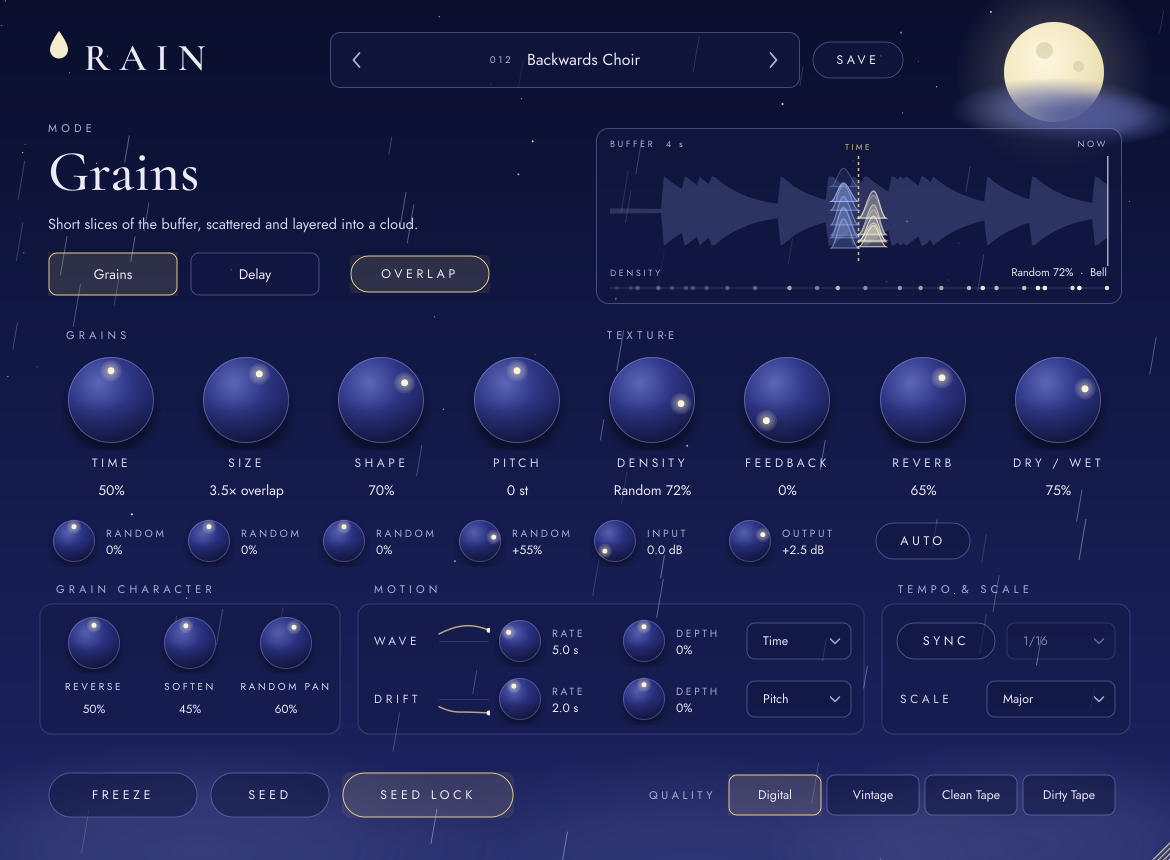
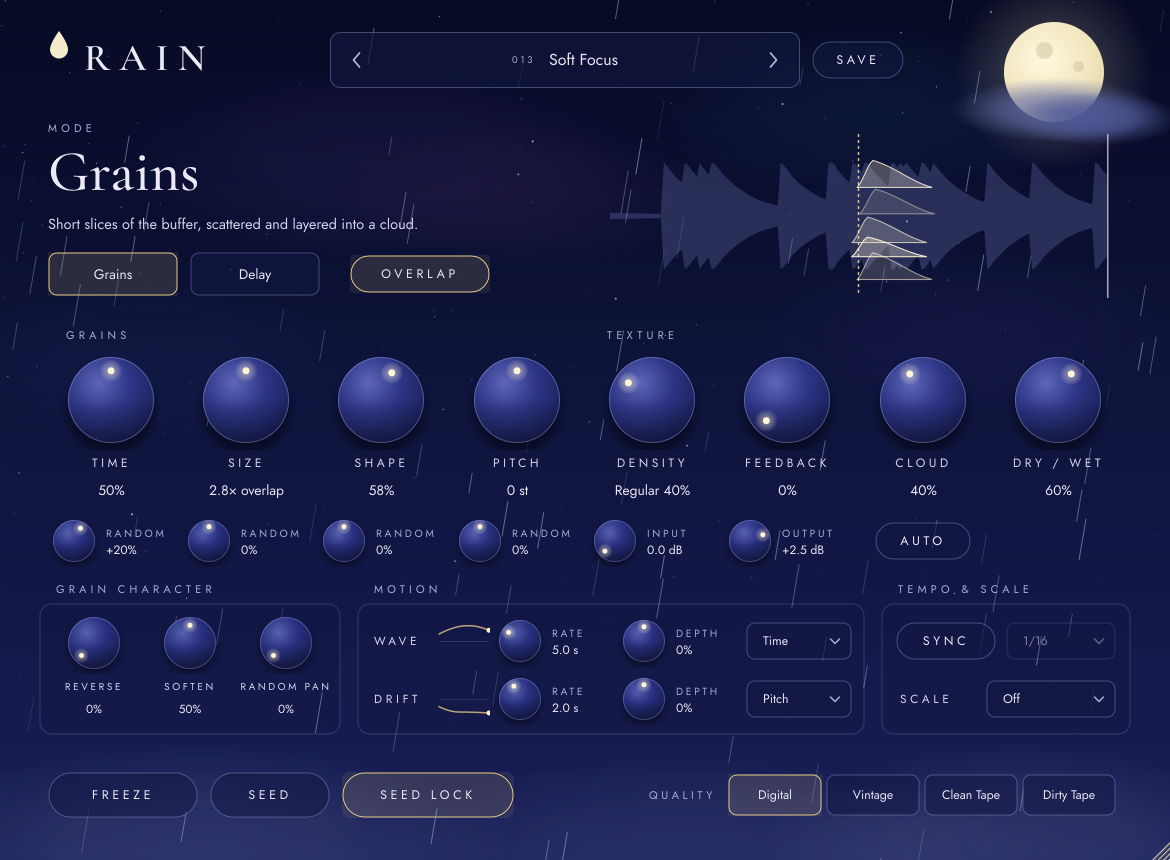
Weather sky, frameless grain display, Reverb renamed Cloud
- Grain display: no frame, labels or density lane; grains 10% more opaque.
- The rain on the panel follows DENSITY; the reverb knob (now CLOUD) darkens
  the sky and brings out nebulae and more stars.
- Value text rounds whole numbers (modulator periods no longer show 33.3333 s).

Claude-Session: https://claude.ai/code/session_015SvcbwEnBtvLQ2p4iUs4Hx

diff --git a/source/ui/Components.cpp b/source/ui/Components.cpp
@@ -385,9 +385,19 @@ void SkyBackground::resized()
     renderStatic();
 }
 
+void SkyBackground::setWeather (float rain, float night) noexcept
+{
+    rainTarget = jlimit (0.0f, 1.0f, rain);
+    nightTarget = jlimit (0.0f, 1.0f, night);
+}
+
 void SkyBackground::advance (float seconds)
 {
     time += seconds;
+    // Ease towards the knobs over about half a second, so the weather drifts.
+    const float k = 1.0f - std::exp (-seconds / 0.5f);
+    rainAmount += k * (rainTarget - rainAmount);
+    nightAmount += k * (nightTarget - nightAmount);
     repaint();
 }
 
@@ -412,6 +422,34 @@ void SkyBackground::renderStatic()
     const float scale = 2.0f; // render at 2x so it stays sharp when the window grows
     const int w = Theme::designWidth, h = Theme::designHeight;
     sky = Image (Image::RGB, static_cast<int> (w * scale), static_cast<int> (h * scale), true);
+    nightSky = Image (Image::ARGB, static_cast<int> (w * scale), static_cast<int> (h * scale), true);
+    decor = Image (Image::ARGB, static_cast<int> (w * scale), static_cast<int> (h * scale), true);
+
+    // The deep-night layer: darker sky, nebulae and a denser star field.
+    {
+        Graphics n (nightSky);
+        n.addTransform (AffineTransform::scale (scale));
+        ColourGradient dark (Colour (2, 3, 16).withAlpha (0.62f), 0, 0, Colour (4, 6, 26).withAlpha (0.35f), 0, static_cast<float> (h), false);
+        n.setGradientFill (dark);
+        n.fillRect (0, 0, w, h);
+        // Nebulae: soft violet, rose and teal clouds across the upper sky.
+        softEllipse (n, { 120.0f, 60.0f, 520.0f, 200.0f }, Colour (120, 70, 190).withAlpha (0.22f));
+        softEllipse (n, { 330.0f, 120.0f, 380.0f, 150.0f }, Colour (190, 90, 160).withAlpha (0.14f));
+        softEllipse (n, { 640.0f, 20.0f, 460.0f, 180.0f }, Colour (60, 140, 190).withAlpha (0.16f));
+        softEllipse (n, { 760.0f, 250.0f, 420.0f, 170.0f }, Colour (110, 80, 200).withAlpha (0.14f));
+        softEllipse (n, { -60.0f, 280.0f, 420.0f, 160.0f }, Colour (70, 120, 200).withAlpha (0.12f));
+        Random nr (29);
+        for (int i = 0; i < 220; ++i)
+        {
+            const float x = nr.nextFloat() * static_cast<float> (w);
+            const float y = nr.nextFloat() * static_cast<float> (h) * 0.85f;
+            const float r = nr.nextFloat() > 0.92f ? 1.9f : (nr.nextFloat() > 0.5f ? 1.2f : 0.8f);
+            n.setColour (Colour (230, 236, 255).withAlpha (0.25f + nr.nextFloat() * 0.65f));
+            n.fillEllipse (x, y, r, r);
+        }
+    }
+
+    {
     Graphics g (sky);
     g.addTransform (AffineTransform::scale (scale));
 
@@ -431,6 +469,18 @@ void SkyBackground::renderStatic()
         g.fillEllipse (sx, sy, sz, sz);
     }
 
+    // Low mist along the bottom.
+    const auto bottom = static_cast<float> (h);
+    softEllipse (g, { -120.0f, bottom - 120.0f, 640.0f, 220.0f }, Colour (160, 168, 225).withAlpha (0.2f));
+    softEllipse (g, { 340.0f, bottom - 110.0f, 700.0f, 230.0f }, Colour (150, 158, 220).withAlpha (0.16f));
+    softEllipse (g, { 760.0f, bottom - 120.0f, 520.0f, 210.0f }, Colour (170, 176, 230).withAlpha (0.18f));
+
+    }
+
+    // Everything from here on sits above the night layer.
+    Graphics g (decor);
+    g.addTransform (AffineTransform::scale (scale));
+
     // Moon with a halo, two faint craters, tucked into the top-right corner.
     const Rectangle<float> moon (1004.0f, 22.0f, 100.0f, 100.0f);
     softEllipse (g, moon.expanded (50.0f), Colour (246, 236, 198).withAlpha (0.2f));
@@ -447,12 +497,6 @@ void SkyBackground::renderStatic()
     // The rain cloud drifting across the moon.
     softEllipse (g, { 950.0f, 78.0f, 210.0f, 64.0f }, Colour (100, 108, 165).withAlpha (0.8f));
     softEllipse (g, { 1010.0f, 92.0f, 170.0f, 54.0f }, Colour (80, 88, 150).withAlpha (0.9f));
-
-    // Low mist along the bottom.
-    const auto bottom = static_cast<float> (h);
-    softEllipse (g, { -120.0f, bottom - 120.0f, 640.0f, 220.0f }, Colour (160, 168, 225).withAlpha (0.2f));
-    softEllipse (g, { 340.0f, bottom - 110.0f, 700.0f, 230.0f }, Colour (150, 158, 220).withAlpha (0.16f));
-    softEllipse (g, { 760.0f, bottom - 120.0f, 520.0f, 210.0f }, Colour (170, 176, 230).withAlpha (0.18f));
 
     // Glass panels behind the motion and tempo rows.
     for (const auto& panel : { Rectangle<float> (40.0f, 604.0f, 300.0f, 130.0f), Rectangle<float> (358.0f, 604.0f, 506.0f, 130.0f),
@@ -486,14 +530,25 @@ void SkyBackground::renderStatic()
 
 void SkyBackground::paint (Graphics& g)
 {
-    g.drawImage (sky, getLocalBounds().toFloat());
+    const auto bounds = getLocalBounds().toFloat();
+    g.drawImage (sky, bounds);
+    if (nightAmount > 0.005f)
+    {
+        g.setOpacity (nightAmount);
+        g.drawImage (nightSky, bounds);
+        g.setOpacity (1.0f);
+    }
+    g.drawImage (decor, bounds);
 
-    // Falling rain, slanted like the mockup.
+    // Falling rain, slanted like the mockup: a drizzle with DENSITY at noon, a
+    // downpour at either end.
     const float sx = static_cast<float> (getWidth()) / static_cast<float> (Theme::designWidth);
     const float sy = static_cast<float> (getHeight()) / static_cast<float> (Theme::designHeight);
     const float travel = static_cast<float> (Theme::designHeight) + 140.0f;
-    for (const auto& s : streaks)
+    const auto count = static_cast<size_t> (20.0f + rainAmount * static_cast<float> (streaks.size() - 20));
+    for (size_t i = 0; i < count; ++i)
     {
+        const auto& s = streaks[i];
         const float p = std::fmod (s.phase + time * s.speed, 1.0f);
         const float y = -80.0f + p * travel;
         const float x = s.x * static_cast<float> (Theme::designWidth) - p * 150.0f;

diff --git a/source/ui/GrainDisplay.cpp b/source/ui/GrainDisplay.cpp
@@ -214,12 +214,8 @@ void GrainDisplay::paint (Graphics& g)
 {
     const auto bounds = getLocalBounds().toFloat();
     const float W = bounds.getWidth(), H = bounds.getHeight();
-    g.setColour (Colour (18, 24, 66).withAlpha (0.55f));
-    g.fillRoundedRectangle (bounds.reduced (0.5f), 12.0f);
-    g.setColour (Theme::hairline);
-    g.drawRoundedRectangle (bounds.reduced (0.5f), 12.0f, 1.0f);
-
-    const float left = 14.0f, right = W - 15.0f, top = 34.0f, bottom = H - 44.0f, laneY = H - 16.0f;
+    // No frame or labels: the buffer and grains float on the sky.
+    const float left = 14.0f, right = W - 15.0f, top = 12.0f, bottom = H - 12.0f;
     const float plotW = right - left, mid = (top + bottom) * 0.5f;
     const float buffer = monitor.bufferSeconds.load();
     const bool frozen = param (ParamID::freeze) > 0.5f;
@@ -228,7 +224,6 @@ void GrainDisplay::paint (Graphics& g)
     const int rateIndex = jlimit (0, 5, static_cast<int> (param (ParamID::syncRate)));
     auto& e = monitor.effective;
     const float time = e[static_cast<size_t> (dsp::ModTarget::time)].load();
-    const float shape = e[static_cast<size_t> (dsp::ModTarget::shape)].load();
     const float density = e[static_cast<size_t> (dsp::ModTarget::density)].load();
 
     // Buffer waveform: newest on the right.
@@ -266,18 +261,6 @@ void GrainDisplay::paint (Graphics& g)
     g.setColour ((frozen ? Theme::gold : Theme::text).withAlpha (0.7f));
     g.fillRect (right, top - 6.0f, 1.5f, bottom - top + 12.0f);
 
-    // Labels.
-    g.setFont (Fonts::caps (13.0f, 0.2f));
-    g.setColour (Theme::textMuted);
-    const String bufferText = "BUFFER  " + String (roundToInt (buffer)) + " s";
-    g.drawText (bufferText, Rectangle<float> (left, 8.0f, 200.0f, 16.0f), Justification::centredLeft, false);
-    g.drawText ("NOW", Rectangle<float> (right - 100.0f, 8.0f, 101.0f, 16.0f), Justification::centredRight, false);
-    if (frozen)
-    {
-        g.setColour (Theme::gold);
-        g.drawText ("FROZEN", Rectangle<float> (left + 120.0f, 8.0f, 120.0f, 16.0f), Justification::centredLeft, false);
-    }
-
     const double bpm = monitor.bpm.load();
     const float delay = delaySeconds (density, buffer, sync, bpm, rateIndex);
 
@@ -292,10 +275,6 @@ void GrainDisplay::paint (Graphics& g)
         PathStrokeType (1.5f).createDashedStroke (dashed, line, dashes, 2);
         g.setColour (Theme::gold.withAlpha (0.95f));
         g.fillPath (dashed);
-        g.setFont (Fonts::caps (12.0f, 0.2f));
-        // Keep the label clear of BUFFER and NOW.
-        const float labelX = jlimit (left + 150.0f, right - 80.0f, tx);
-        g.drawText (delayMode ? "DELAY" : "TIME", Rectangle<float> (labelX - 40.0f, top - 22.0f, 80.0f, 14.0f), Justification::centred, false);
     }
 
     if (delayMode)
@@ -343,42 +322,13 @@ void GrainDisplay::paint (Graphics& g)
             p.closeSubPath();
             // Reverse grains are drawn in cool moonlight blue, forward grains in gold.
             const auto colour = gr.reverse ? Colour (160, 186, 255) : Theme::dotGlow;
-            g.setColour (colour.withAlpha (0.08f + 0.2f * fade));
+            // 10% more opaque than the first design.
+            g.setColour (colour.withAlpha (1.1f * (0.08f + 0.2f * fade)));
             g.fillPath (p);
-            g.setColour (colour.withAlpha (0.3f + 0.55f * fade));
+            g.setColour (colour.withAlpha (jmin (1.0f, 1.1f * (0.3f + 0.55f * fade))));
             g.strokePath (p, PathStrokeType (1.1f));
         }
     }
-
-    // Density lane.
-    g.setColour (Colour (190, 196, 255).withAlpha (0.18f));
-    g.fillRect (left, laneY - 0.5f, plotW, 1.0f);
-    for (const float age : triggers)
-    {
-        const float x = right - age / kLaneSeconds * plotW;
-        g.setColour (Theme::dotGlow.withAlpha (jmax (0.0f, 0.9f - age / 3.0f)));
-        g.fillEllipse (x - 2.2f, laneY - 2.2f, 4.4f, 4.4f);
-    }
-
-    String readout;
-    if (delayMode)
-    {
-        readout = "Echo every " + delayText (density, buffer, sync, bpm, rateIndex);
-    }
-    else if (! (param (ParamID::seedLock) > 0.5f || param (ParamID::seed) > 0.5f))
-        readout = "Hold SEED to play grains";
-    else if (sync)
-        readout = syncDensityText (density, rateIndex) + "  ·  " + shapeName (shape);
-    else
-        readout = state.getParameter (ParamID::density)->getText (state.getParameter (ParamID::density)->convertTo0to1 (density * 100.0f), 32)
-                + "  ·  " + shapeName (shape);
-
-    g.setFont (Fonts::caps (13.0f, 0.2f));
-    g.setColour (Theme::textMuted);
-    g.drawText (delayMode ? "ECHOES" : sync ? "CLOCK" : "DENSITY", Rectangle<float> (left, laneY - 22.0f, 160.0f, 14.0f), Justification::centredLeft, false);
-    g.setFont (Fonts::sans (16.0f));
-    g.setColour (Theme::text);
-    g.drawText (readout, Rectangle<float> (left + 120.0f, laneY - 24.0f, plotW - 120.0f, 16.0f), Justification::centredRight, false);
 }
 
 } // namespace rain::ui

diff --git a/source/Parameters.cpp b/source/Parameters.cpp
@@ -31,7 +31,7 @@ juce::StringArray scaleNames()
 
 juce::StringArray modTargetNames()
 {
-    return { "Off", "Time", "Size", "Shape", "Pitch", "Density", "Feedback", "Dry/Wet", "Reverb" };
+    return { "Off", "Time", "Size", "Shape", "Pitch", "Density", "Feedback", "Dry/Wet", "Cloud" };
 }
 
 namespace
@@ -42,7 +42,7 @@ namespace
     {
         return juce::AudioParameterFloatAttributes()
             .withLabel (label)
-            .withStringFromValueFunction ([decimals] (float v, int) { return juce::String (v, decimals); });
+            .withStringFromValueFunction ([decimals] (float v, int) { return decimals > 0 ? juce::String (v, decimals) : juce::String (juce::roundToInt (v)); });
     }
 
     // DENSITY reads like the Beads knob: noon is off, left is regular, right is random.
@@ -54,7 +54,7 @@ namespace
                 if (std::abs (d) < 2.0f)
                     return juce::String ("Off");
                 return (d < 0.0f ? juce::String ("Regular ") : juce::String ("Random "))
-                     + juce::String (std::abs (d) * 2.0f, 0) + "%";
+                     + juce::String (juce::roundToInt (std::abs (d) * 2.0f)) + "%";
             });
     }
 }
@@ -98,7 +98,7 @@ juce::AudioProcessorValueTreeState::ParameterLayout createParameterLayout()
     layout.add (std::make_unique<AudioParameterFloat> (ParameterID { ParamID::density, v }, "Density", Range { 0.0f, 100.0f, 0.1f }, 82.0f, densityText()));
     percent (ParamID::feedback, "Feedback", 0.0f);
     percent (ParamID::dryWet, "Dry/Wet", 50.0f);
-    percent (ParamID::reverb, "Reverb", 30.0f);
+    percent (ParamID::reverb, "Cloud", 30.0f); // Beads' reverb, named Cloud on Rain's panel
     layout.add (std::make_unique<AudioParameterBool> (ParameterID { ParamID::freeze, v }, "Freeze", false));
     layout.add (std::make_unique<AudioParameterBool> (ParameterID { ParamID::seed, v }, "Seed", false));
     layout.add (std::make_unique<AudioParameterBool> (ParameterID { ParamID::seedLock, v }, "Seed Lock", true));
@@ -129,7 +129,8 @@ juce::AudioProcessorValueTreeState::ParameterLayout createParameterLayout()
     auto rateText = AudioParameterFloatAttributes()
         .withStringFromValueFunction ([] (float hz, int) {
             if (hz < 1.0f)
-                return String (1.0f / hz, hz < 0.1f ? 0 : 1) + " s";
+                // (String's 0 decimal places means "all of them", so round explicitly.)
+                return (hz < 0.1f ? String (roundToInt (1.0f / hz)) : String (1.0f / hz, 1)) + " s";
             return String (hz, 2) + " Hz";
         })
         .withValueFromStringFunction ([] (const String& t) {

diff --git a/source/PluginEditor.cpp b/source/PluginEditor.cpp
@@ -103,7 +103,7 @@ RainEditor::RainEditor (RainProcessor& p)
     // Knobs.
     const std::pair<const char*, const char*> large[] = {
         { ParamID::time, "TIME" }, { ParamID::size, "SIZE" }, { ParamID::shape, "SHAPE" }, { ParamID::pitch, "PITCH" },
-        { ParamID::density, "DENSITY" }, { ParamID::feedback, "FEEDBACK" }, { ParamID::reverb, "REVERB" }, { ParamID::dryWet, "DRY / WET" },
+        { ParamID::density, "DENSITY" }, { ParamID::feedback, "FEEDBACK" }, { ParamID::reverb, "CLOUD" }, { ParamID::dryWet, "DRY / WET" },
     };
     for (const auto& [id, name] : large)
     {
@@ -343,6 +343,13 @@ void RainEditor::updateLiveValues()
 void RainEditor::tick()
 {
     constexpr float dt = 1.0f / 30.0f;
+    // The sky follows DENSITY (how hard it rains) and REVERB (how deep the night).
+    {
+        const auto& mon = processor.getMonitor();
+        const float d = mon.effective[static_cast<size_t> (dsp::ModTarget::density)].load();
+        const float r = mon.effective[static_cast<size_t> (dsp::ModTarget::reverb)].load();
+        sky.setWeather (jlimit (0.0f, 1.0f, std::abs (d - 0.5f) * 2.0f), r);
+    }
     sky.advance (dt);
     grainDisplay.advance (dt);
     presetBar.refresh();

diff --git a/source/ui/Components.h b/source/ui/Components.h
@@ -100,14 +100,22 @@ public:
 
     void advance (float seconds);
 
+    // The sky follows the sound: rain (0 to 1) sets how heavily it rains, and
+    // night (0 to 1) darkens the sky and brings out nebulae and more stars.
+    void setWeather (float rain, float night) noexcept;
+
 private:
     void renderStatic();
 
     struct Streak { float x, phase, length, alpha, speed; };
 
-    juce::Image sky;
-    std::array<Streak, 70> streaks {};
+    // sky: gradient, stars and mist. night: darkening, nebulae and extra stars,
+    // faded in by `night`. decor: moon, panels, wordmark and headings, always on top.
+    juce::Image sky, nightSky, decor;
+    std::array<Streak, 260> streaks {};
     float time = 0.0f;
+    float rainTarget = 0.5f, rainAmount = 0.5f;
+    float nightTarget = 0.0f, nightAmount = 0.0f;
 };
 
 } // namespace rain::ui

diff --git a/docs/DESIGN.md b/docs/DESIGN.md
@@ -59,10 +59,10 @@ reported to the host.
 
 | Control | Range | What it does |
 | --- | --- | --- |
-| **Density** | 0 to 100% | Centre (48 to 52%) is off. Left of centre, grains fire at regular intervals, faster as you turn left. Right of centre, they fire at random, denser as you turn right. Up to about 130 grains per second. |
+| **Density** | 0 to 100% | Centre (48 to 52%) is off. Left of centre, grains fire at regular intervals, faster as you turn left. Right of centre, they fire at random, denser as you turn right. Up to about 130 grains per second. On the panel, the rain falls harder the further Density is from noon. |
 | **Feedback** | 0 to 100% | How much of the grain output is recorded back into the buffer. Soft-limited, so it can run hot. |
 | **Dry/Wet** | 0 to 100% | Beads' crossfade law (dry 0.75×, wet 1.5× at the extremes). |
-| **Reverb** | 0 to 100% | Amount and decay together. The reverb sits after the dry/wet mix, so it also works on the dry signal. |
+| **Cloud** | 0 to 100% | Beads' reverb (Rain calls it Cloud): amount and decay together. It sits after the dry/wet mix, so it also works on the dry signal. On the panel, it also deepens the night sky, bringing out nebulae and more stars. |
 | **Soften** | 0 to 100% | **Rain** (Grain Character): darkens and warms the grains only: light saturation, then a 12 dB/octave low-pass from 16 kHz down to about 2.5 kHz. Default 25%. |
 
 ## Buttons
